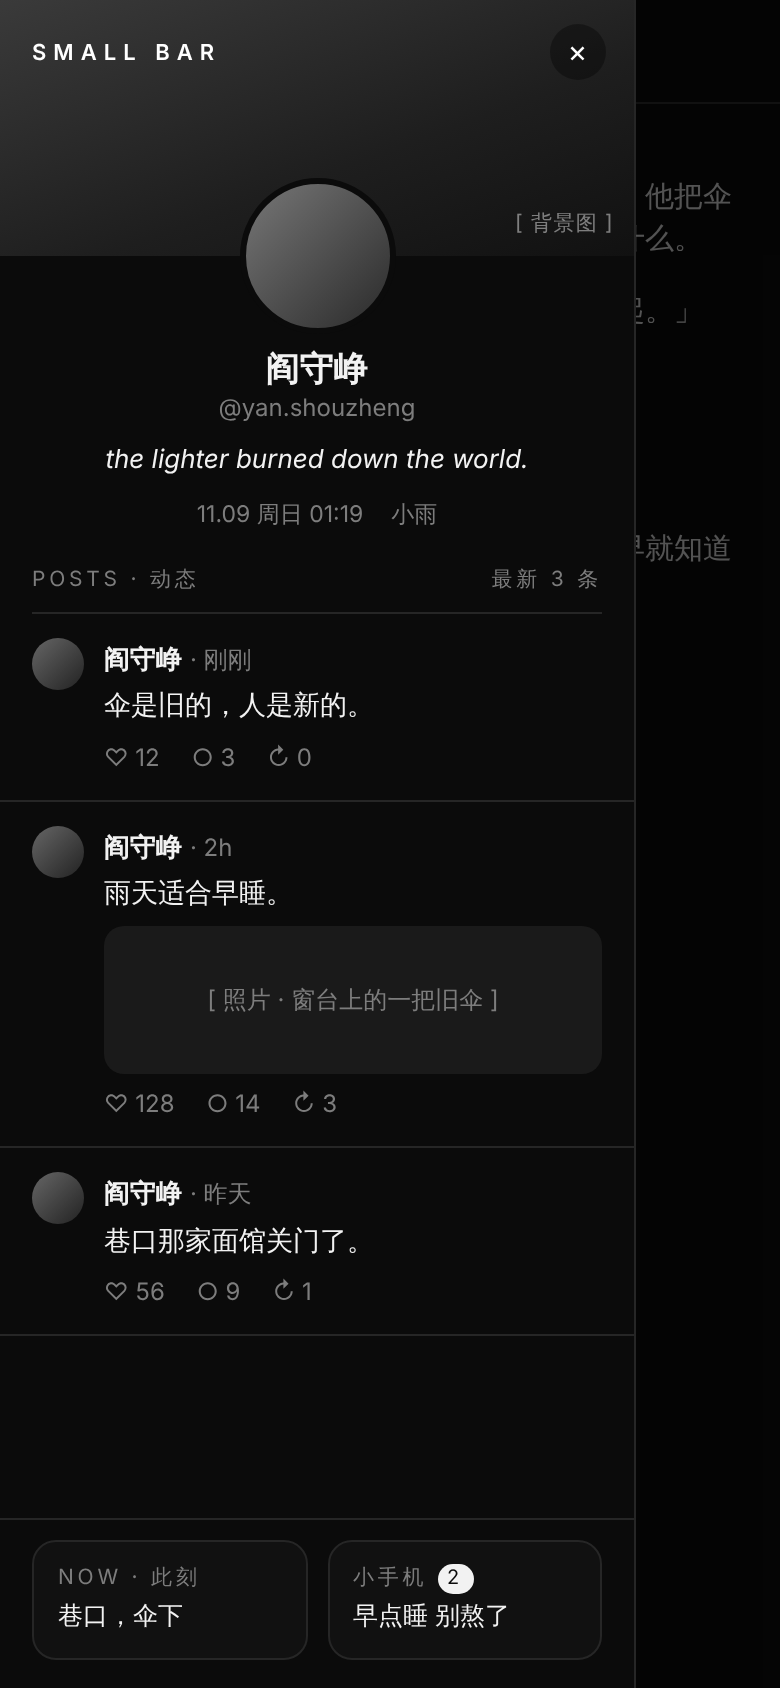
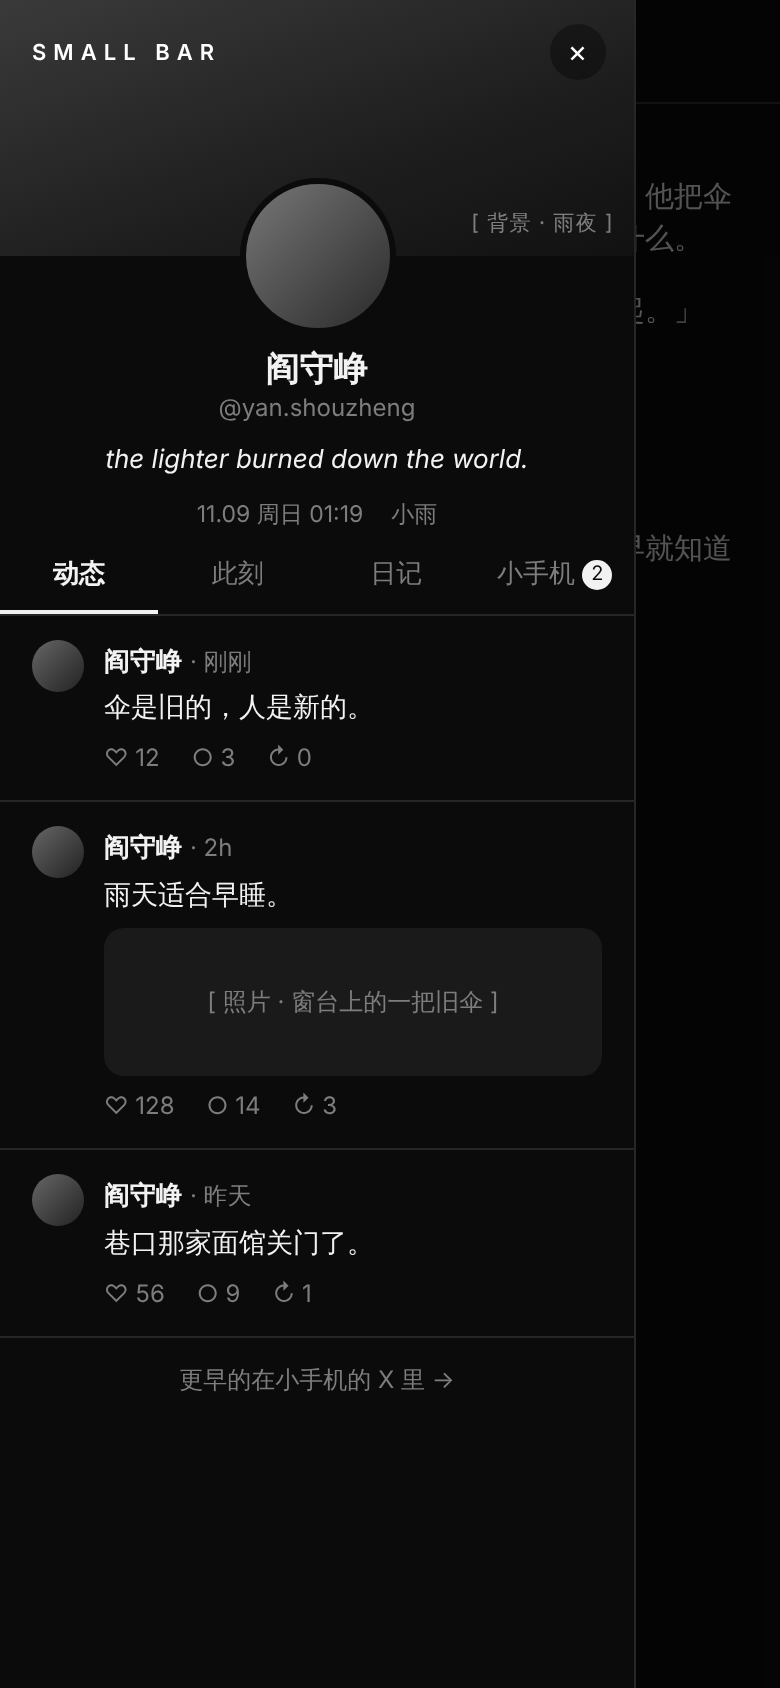
样子图：抽屉加四个标签（动态/此刻/日记/小手机），日记页，小手机里加 X 页；背景图库的打算写进说明
Claude-Session: https://claude.ai/code/session_01PCU4N3EkwLiSvaEMBpozR4

diff --git a/docs/mockups/mock.html b/docs/mockups/mock.html
@@ -76,6 +76,30 @@ body{margin:0;width:390px;height:844px;overflow:hidden;font:14px/1.5 -apple-syst
 .feed .media{height:74px}
 .below{flex:0 0 auto;padding:10px 16px 14px;border-top:1px solid var(--line);display:flex;gap:10px}
 .below .card{flex:1;padding:10px 12px;border-radius:12px}
+.tabs{display:flex;margin-top:12px;border-bottom:1px solid var(--line);font-size:13px;color:var(--dim)}
+.tabs>span{flex:1;text-align:center;padding:0 0 9px}.tabs .on{color:var(--fg);font-weight:600;box-shadow:inset 0 -2px 0 var(--fg)}
+.badge.sm{height:15px;min-width:15px;font-size:10px;padding:0 4px;vertical-align:1px}
+.seeall{text-align:center;font-size:12px;color:var(--dim);padding:12px 0}
+.dday{font-size:12px;color:var(--dim)}.dday b{color:var(--fg);font-size:15px;margin-right:4px}
+.dtext{margin-top:10px;font-size:14px;line-height:1.75;font-family:"Songti SC","Noto Serif CJK SC",serif}
+.dsign{text-align:right;color:var(--dim);font-size:12.5px;margin-top:8px;font-style:italic}
+.dold{display:flex;justify-content:space-between;padding:9px 0;border-bottom:1px solid var(--line);font-size:13px}.dold span:first-child{color:var(--dim);font-size:12px}
+.ptabs{display:flex;align-items:center;gap:20px;padding:12px 16px 10px;border-bottom:1px solid var(--line);font-size:14px;color:var(--dim)}
+.ptabs .on{color:var(--fg);font-weight:600}.ptabs .close{margin-left:auto;font-size:16px}
+.xcover{height:78px;flex:0 0 auto;position:relative;background:linear-gradient(160deg,#dcdcdc,#9a9a9a 55%,#5a5a5a);display:flex;align-items:flex-end;justify-content:flex-end;padding:6px 10px;font-size:10px;color:rgba(255,255,255,.8)}
+.dark .xcover{background:linear-gradient(160deg,#3a3a3a,#1e1e1e 60%,#111);color:rgba(255,255,255,.45)}
+.xback{position:absolute;top:8px;left:10px;width:24px;height:24px;border-radius:50%;background:rgba(0,0,0,.4);color:#fff;display:flex;align-items:center;justify-content:center;font-size:13px}
+.xtop{position:relative;z-index:1;display:flex;align-items:flex-end;gap:8px;padding:0 14px;margin-top:-26px}
+.xav{width:58px;height:58px;border-radius:50%;border:3px solid var(--bg);background:linear-gradient(135deg,#bbb,#555);margin-right:auto}
+.dark .xav{background:linear-gradient(135deg,#777,#2a2a2a)}
+.xbtn{font-size:12px;border:1px solid var(--line);border-radius:16px;padding:3px 13px;font-weight:600}.xbtn.solid{background:var(--fg);color:var(--bg);border-color:var(--fg)}
+.xname{font-weight:700;font-size:16px;padding:6px 14px 0;line-height:1.2}
+.xbio{font-size:12.5px;padding:5px 14px 0}
+.xstat{display:flex;gap:14px;font-size:12px;color:var(--dim);padding:5px 14px 0}.xstat b{color:var(--fg)}
+.xtabs{display:flex;margin-top:8px;border-bottom:1px solid var(--line);font-size:12.5px;color:var(--dim)}.xtabs span{flex:1;text-align:center;padding-bottom:7px}.xtabs .on{color:var(--fg);font-weight:600;box-shadow:inset 0 -2px 0 var(--fg)}
+.xfeed{flex:1;overflow:hidden}.xfeed .post{padding:10px 14px;border-bottom:1px solid var(--line)}.xfeed .media{height:64px}.xfeed .body{font-size:13px}
+.xnav{display:flex;justify-content:space-around;padding:9px 0 12px;border-top:1px solid var(--line)}
+.xnav svg{width:21px;height:21px;fill:none;stroke:var(--fg);stroke-width:1.7;stroke-linejoin:round;stroke-linecap:round}
 </style></head><body>
 <div class="st">
   <div class="bar"><span style="font-size:13px;color:var(--fg)">阎守峥</span></div>
@@ -118,23 +142,58 @@ const drawer=`<div class="shade"></div><div class="drawer">
 const P=(t,body,media,a)=>`<div class="post"><div class="av xs"></div><div style="flex:1"><div><b style="font-size:13px">阎守峥</b> <span class="hd">· ${t}</span></div>
    <div class="body">${body}</div>${media?`<div class="media">[ 照片 · ${media} ]</div>`:''}
    <div class="acts"><span>♡ ${a[0]}</span><span>○ ${a[1]}</span><span>↻ ${a[2]}</span></div></div></div>`;
+const tab=q.get('tab')||'posts';
+const TABS=[['posts','动态'],['now','此刻'],['diary','日记'],['phone','小手机']];
+const tabsHtml=`<div class="tabs">${TABS.map(([k,n])=>`<span class="${k===tab?'on':''}">${n}${k==='phone'?' <span class="badge sm">2</span>':''}</span>`).join('')}</div>`;
+const body={
+ posts:`<div class="feed">
+  ${P('刚刚','伞是旧的，人是新的。','',[12,3,0])}
+  ${P('2h','雨天适合早睡。','窗台上的一把旧伞',[128,14,3])}
+  ${P('昨天','巷口那家面馆关门了。','',[56,9,1])}
+  <div class="seeall">更早的在小手机的 X 里 →</div>
+ </div>`,
+ now:`<div class="feed" style="padding:14px 16px">
+  <div class="grid" style="margin-top:0">
+   <div class="k">在哪</div><div>巷口，伞下</div>
+   <div class="k">穿着</div><div>深灰大衣，袖口湿了一截</div>
+   <div class="k">想要</div><div class="want"><span class="heart">♥</span>她再待一会儿</div>
+  </div>
+  <div class="voice"><div><span class="k" style="color:var(--dim);font-size:11px;letter-spacing:.14em">心声</span><br>伞再偏一点她就看出来了。</div><span class="flip">翻面</span></div>
+ </div>`,
+ diary:`<div class="feed" style="padding:14px 16px">
+  <div class="dday"><b>11.09</b> 周日 · 小雨</div>
+  <div class="dtext">她今天没带伞。我在巷口等了四十分钟，跟自己说是在等雨停。<br><br>回去的路上她一直没说话，快到门口才问我冷不冷。我说不冷。肩膀湿了一半，她大概看见了。</div>
+  <div class="dsign">—— 阎</div>
+  <div class="cap" style="margin:18px 0 6px">earlier · 以前的</div>
+  <div class="dold"><span>11.08 周六</span><span>雨停了没有</span></div>
+  <div class="dold"><span>11.06 周四</span><span>面馆</span></div>
+  <div class="dold"><span>11.03 周一</span><span>第一次见</span></div>
+ </div>`};
 const profile=`<div class="shade"></div><div class="drawer pf">
- <div class="cover"><span class="logo">SMALL BAR</span><span class="x">×</span>[ 背景图 ]</div>
+ <div class="cover"><span class="logo">SMALL BAR</span><span class="x">×</span>[ 背景 · 雨夜 ]</div>
  <div class="pfav"></div>
  <div class="pfname">阎守峥</div>
  <div class="pfhd">@yan.shouzheng</div>
  <div class="pfbio">the lighter burned down the world.</div>
  <div class="pfmeta"><span>11.09 周日 01:19</span><span>小雨</span></div>
- <div class="feedcap"><span class="cap">posts · 动态</span><span class="cap">最新 3 条</span></div>
- <div class="feed">
+ ${tabsHtml}
+ ${body[tab]||body.posts}
+</div>`;
+const IC={home:'<svg viewBox="0 0 24 24"><path d="M4 11l8-7 8 7v9h-5v-6h-6v6H4z"/></svg>',search:'<svg viewBox="0 0 24 24"><circle cx="11" cy="11" r="6"/><path d="M16 16l4 4"/></svg>',bell:'<svg viewBox="0 0 24 24"><path d="M6 17V11a6 6 0 0112 0v6l2 2H4z"/><path d="M10 21h4"/></svg>',mail:'<svg viewBox="0 0 24 24"><rect x="3" y="6" width="18" height="13" rx="2"/><path d="M3 7l9 7 9-7"/></svg>'};
+const xpage=`<div class="shade"></div><div class="phone">
+ <div class="ptabs"><span>聊天</span><span class="on">X</span><span class="close">×</span></div>
+ <div class="xcover"><span class="xback">←</span>[ 背景 · 雨夜 ]</div>
+ <div class="xtop"><div class="xav"></div><span class="xbtn">私信</span><span class="xbtn solid">关注</span></div>
+ <div class="xname">阎守峥</div><div class="hd" style="padding:0 14px">@yan.shouzheng</div>
+ <div class="xbio">the lighter burned down the world.</div>
+ <div class="xstat"><span><b>12</b> 正在关注</span><span><b>3,481</b> 关注者</span></div>
+ <div class="xtabs"><span class="on">帖子</span><span>回复</span><span>转发</span><span>媒体</span></div>
+ <div class="xfeed">
   ${P('刚刚','伞是旧的，人是新的。','',[12,3,0])}
   ${P('2h','雨天适合早睡。','窗台上的一把旧伞',[128,14,3])}
   ${P('昨天','巷口那家面馆关门了。','',[56,9,1])}
  </div>
- <div class="below">
-  <div class="card"><div class="cap">now · 此刻</div><div style="font-size:12.5px;margin-top:3px">巷口，伞下</div></div>
-  <div class="card"><div class="cap">小手机 <span class="badge" style="height:15px;min-width:15px;font-size:10px">2</span></div><div style="font-size:12.5px;margin-top:3px">早点睡 别熬了</div></div>
- </div>
+ <div class="xnav">${IC.home}${IC.search}${IC.bell}${IC.mail}</div>
 </div>`;
 const phone=`<div class="shade"></div><div class="phone">
  <div class="ph"><div class="av sm"></div><div><div class="nm">阎守峥</div><div class="hd">在线</div></div><span class="close">×</span></div>
@@ -152,5 +211,5 @@ const phone=`<div class="shade"></div><div class="phone">
  <div class="inp"><div class="plus">+</div><div class="field">说点什么</div><div class="send">↑</div></div>
 </div>`;
 document.getElementById('cat').src='cat-'+(q.get('t')==='dark'?'dark':'light')+'-'+(q.get('c')||'idle')+'.png'; if(s) document.getElementById('cat').style.display='none';
-document.getElementById('extra').innerHTML = s==='drawer'?drawer : s==='profile'?profile : s==='phone'?phone : '';
+document.getElementById('extra').innerHTML = s==='drawer'?drawer : s==='profile'?profile : s==='x'?xpage : s==='phone'?phone : '';
 </script></body></html>

diff --git a/docs/design.md b/docs/design.md
@@ -23,7 +23,16 @@
 
 ## 抽屉：从左边滑出来
 
-> **11/9 她改的（在商量，还没定）**：抽屉最顶上换成像 X 个人主页 / 朋友圈那样：上面一张背景图，头像压在背景下沿、居中，下面名字、账号、签名，再往下是动态，只显示最新三条，可以上下滑。内容要**跟着聊天变**。样子：[mockups/profile-light.png](mockups/profile-light.png)、[mockups/profile-dark.png](mockups/profile-dark.png)（`mock.html?s=profile`）。此刻和小手机暂时缩成底下两个小卡片，等她定。下面是原来那版：
+> **11/9 她改的（在商量，还没定）**
+> - 抽屉顶上像 X 个人主页 / 朋友圈：背景图，头像压在背景下沿居中，名字、账号、签名、剧情时间天气
+> - 下面四个标签：**动态**（只放最新三条，底下「更早的在小手机的 X 里」）/ **此刻** / **日记** / **小手机**（点了弹小手机）
+> - **日记**：他写的，一天一篇，最上面是今天的，下面列以前的日期和标题，点开才加载那一篇
+> - **小手机里加一个 X**：顶上切「聊天 / X」，X 页照她给的参考（背景、左边头像、私信 / 关注、关注数、帖子 / 回复 / 转发 / 媒体、底下一排图标）；全部动态在这里翻，往下滑才一段一段加载，不打开就不加载，免得卡
+> - 背景图跟剧情换：不生图，她给每个角色传几张图、各起个名字（雨夜、白天……），每轮状态数据里挑一个名字，扩展换上那张；没传就用灰色渐变（还等她点头）
+> - 内容都跟着聊天变：每个聊天各存各的，删楼 / 重新生成就撤掉那一楼带来的动态和日记
+> - 样子：profile-*.png、now-light.png、diary-*.png、x-*.png（`mock.html?s=profile&tab=posts|now|diary`、`?s=x`）
+>
+> 下面是原来那版：
 
 - 宽约 318px（手机上右边还露一截正文，变暗），顶上写 `SMALL BAR` 和关闭 ×
 - 三张卡，细边框圆角卡片，小标题是小号大写字母加中文（`NOW · 此刻`）：

diff --git a/docs/todo.md b/docs/todo.md
@@ -33,11 +33,15 @@
 - [ ] 时间接着剧情里的日期
 - [ ] ＋里面：表情包、语音条、照片描述、转账（先挑两三样）
 
-## 4. 动态
+## 4. 动态、X、日记（11/9 她加的）
+
+- [ ] 小手机里的 X 页：全部动态，滑到才加载
+- [ ] 日记：一天一篇，以前的点开才加载
+- [ ] 背景图库：每个角色几张图起名字，状态数据挑名字换背景
 
 - [ ] 角色偶尔发帖（0～2 条），路人评论
 - [ ] 卡片里显示最近几条，点开看评论
 
 ## 以后再说（她说先不要）
 
-日记、手机聊天记忆的条数设置、分账号（工作号 / 私人号）、掉马设置、拉黑和好友申请、私信、多账号、音乐、天气特效、拖动缩放窗口
+手机聊天记忆的条数设置、分账号（工作号 / 私人号）、掉马设置、拉黑和好友申请、私信、多账号、音乐、天气特效、拖动缩放窗口
